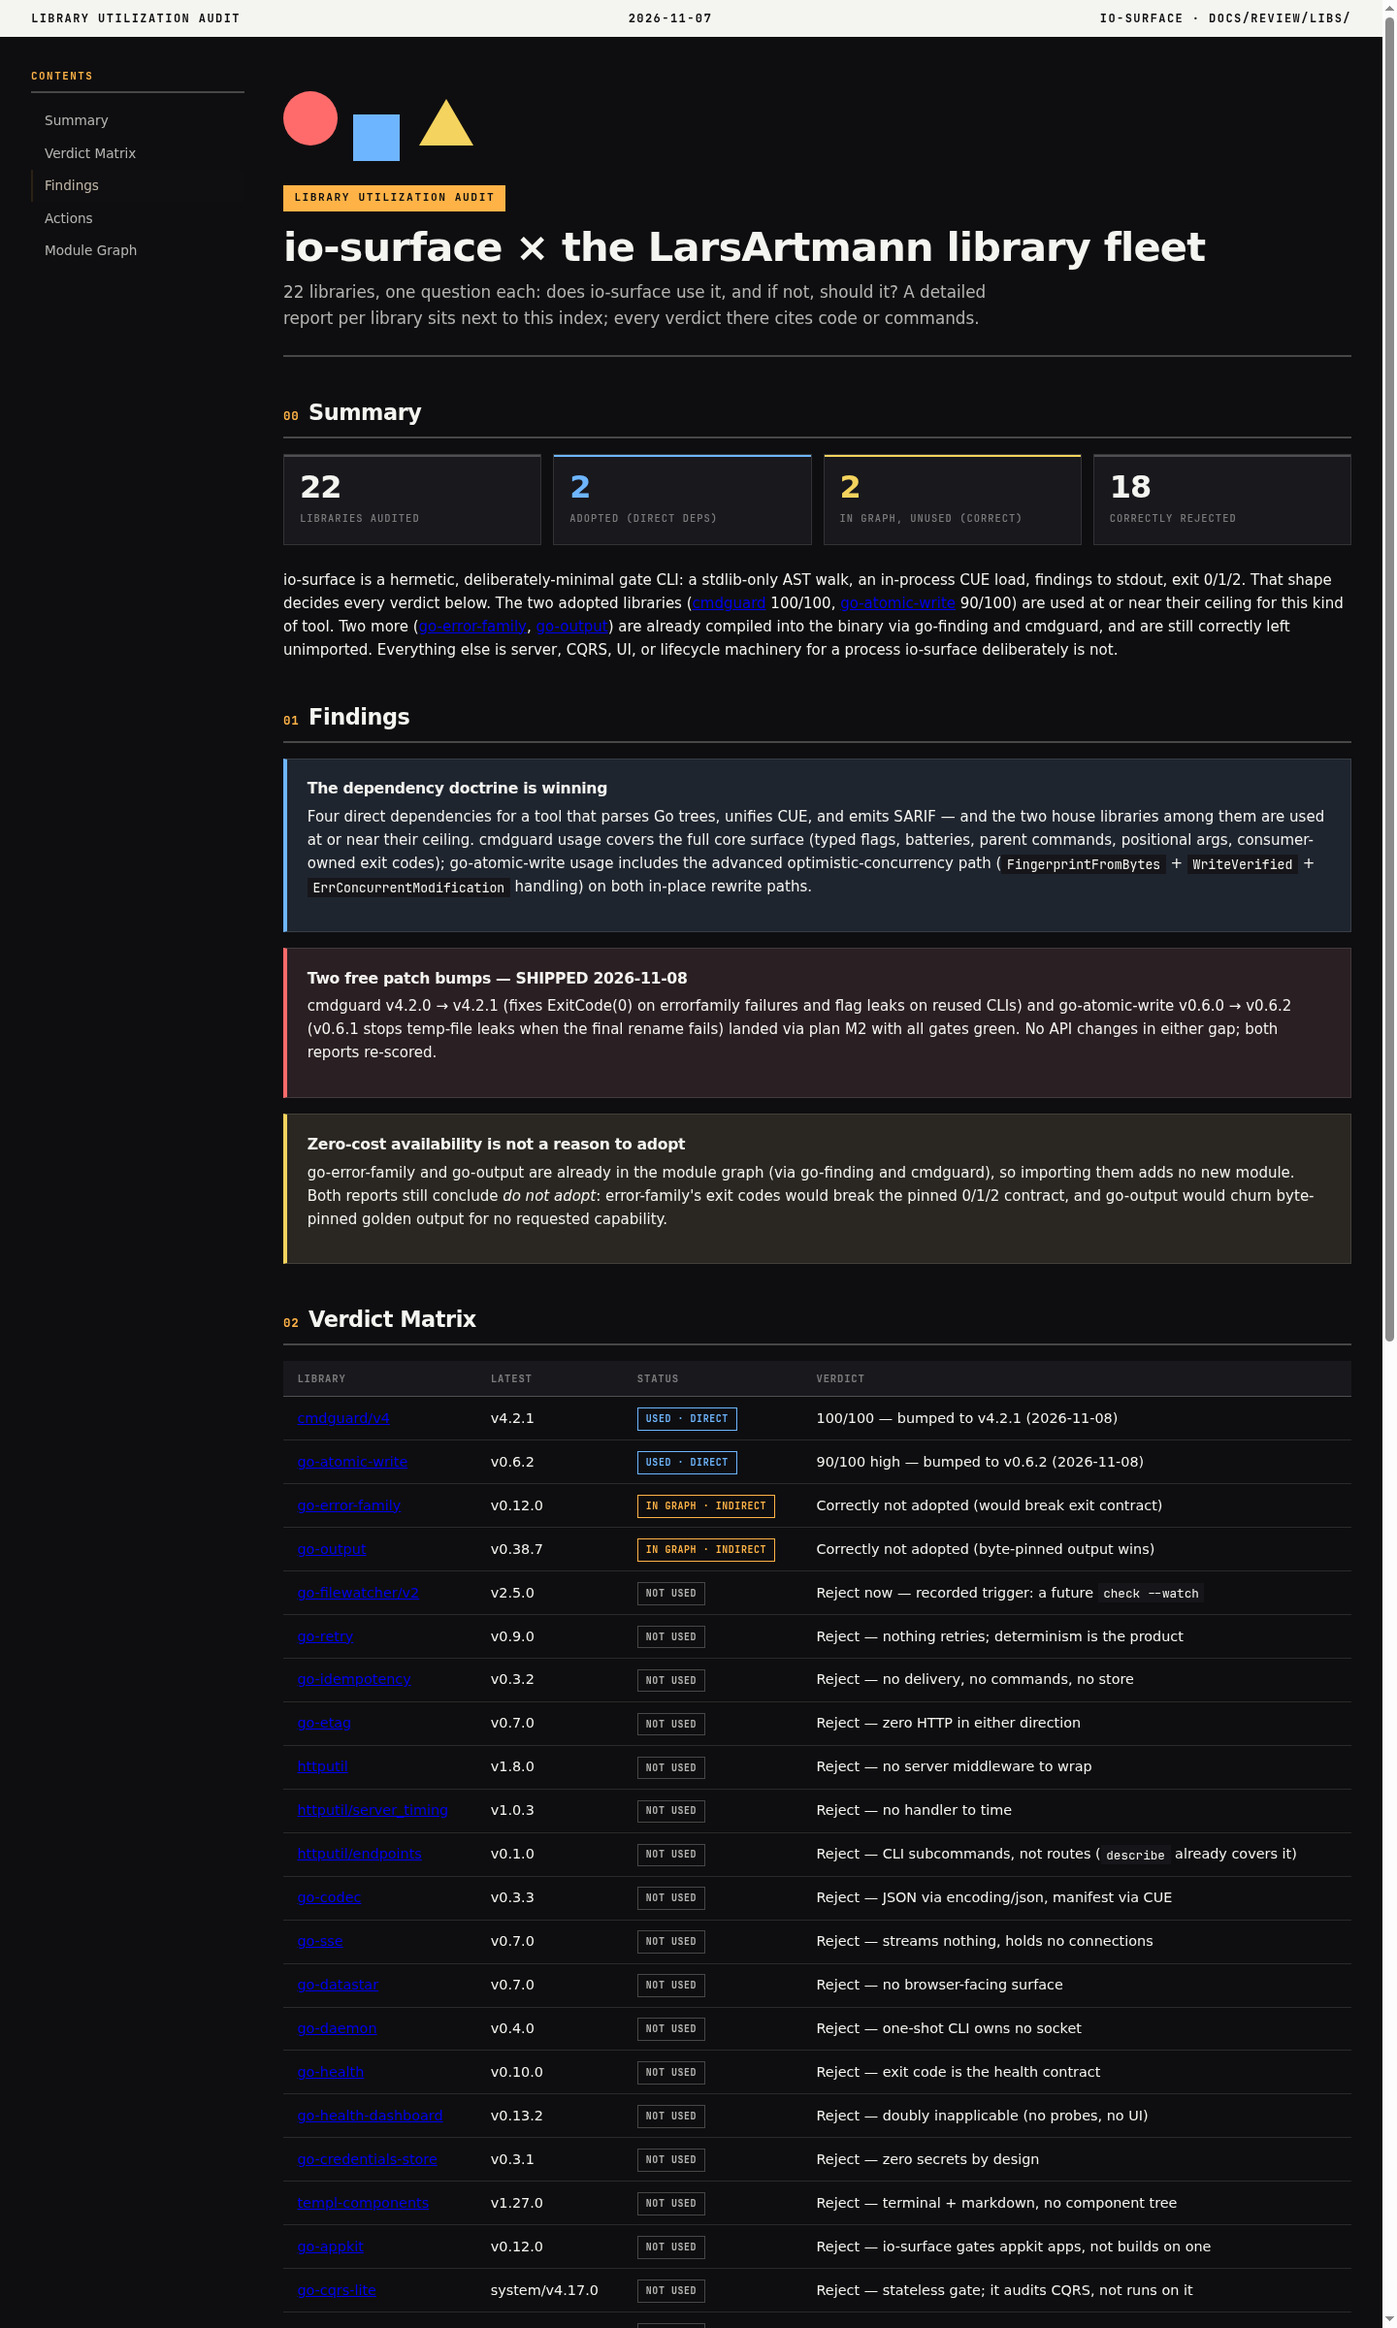
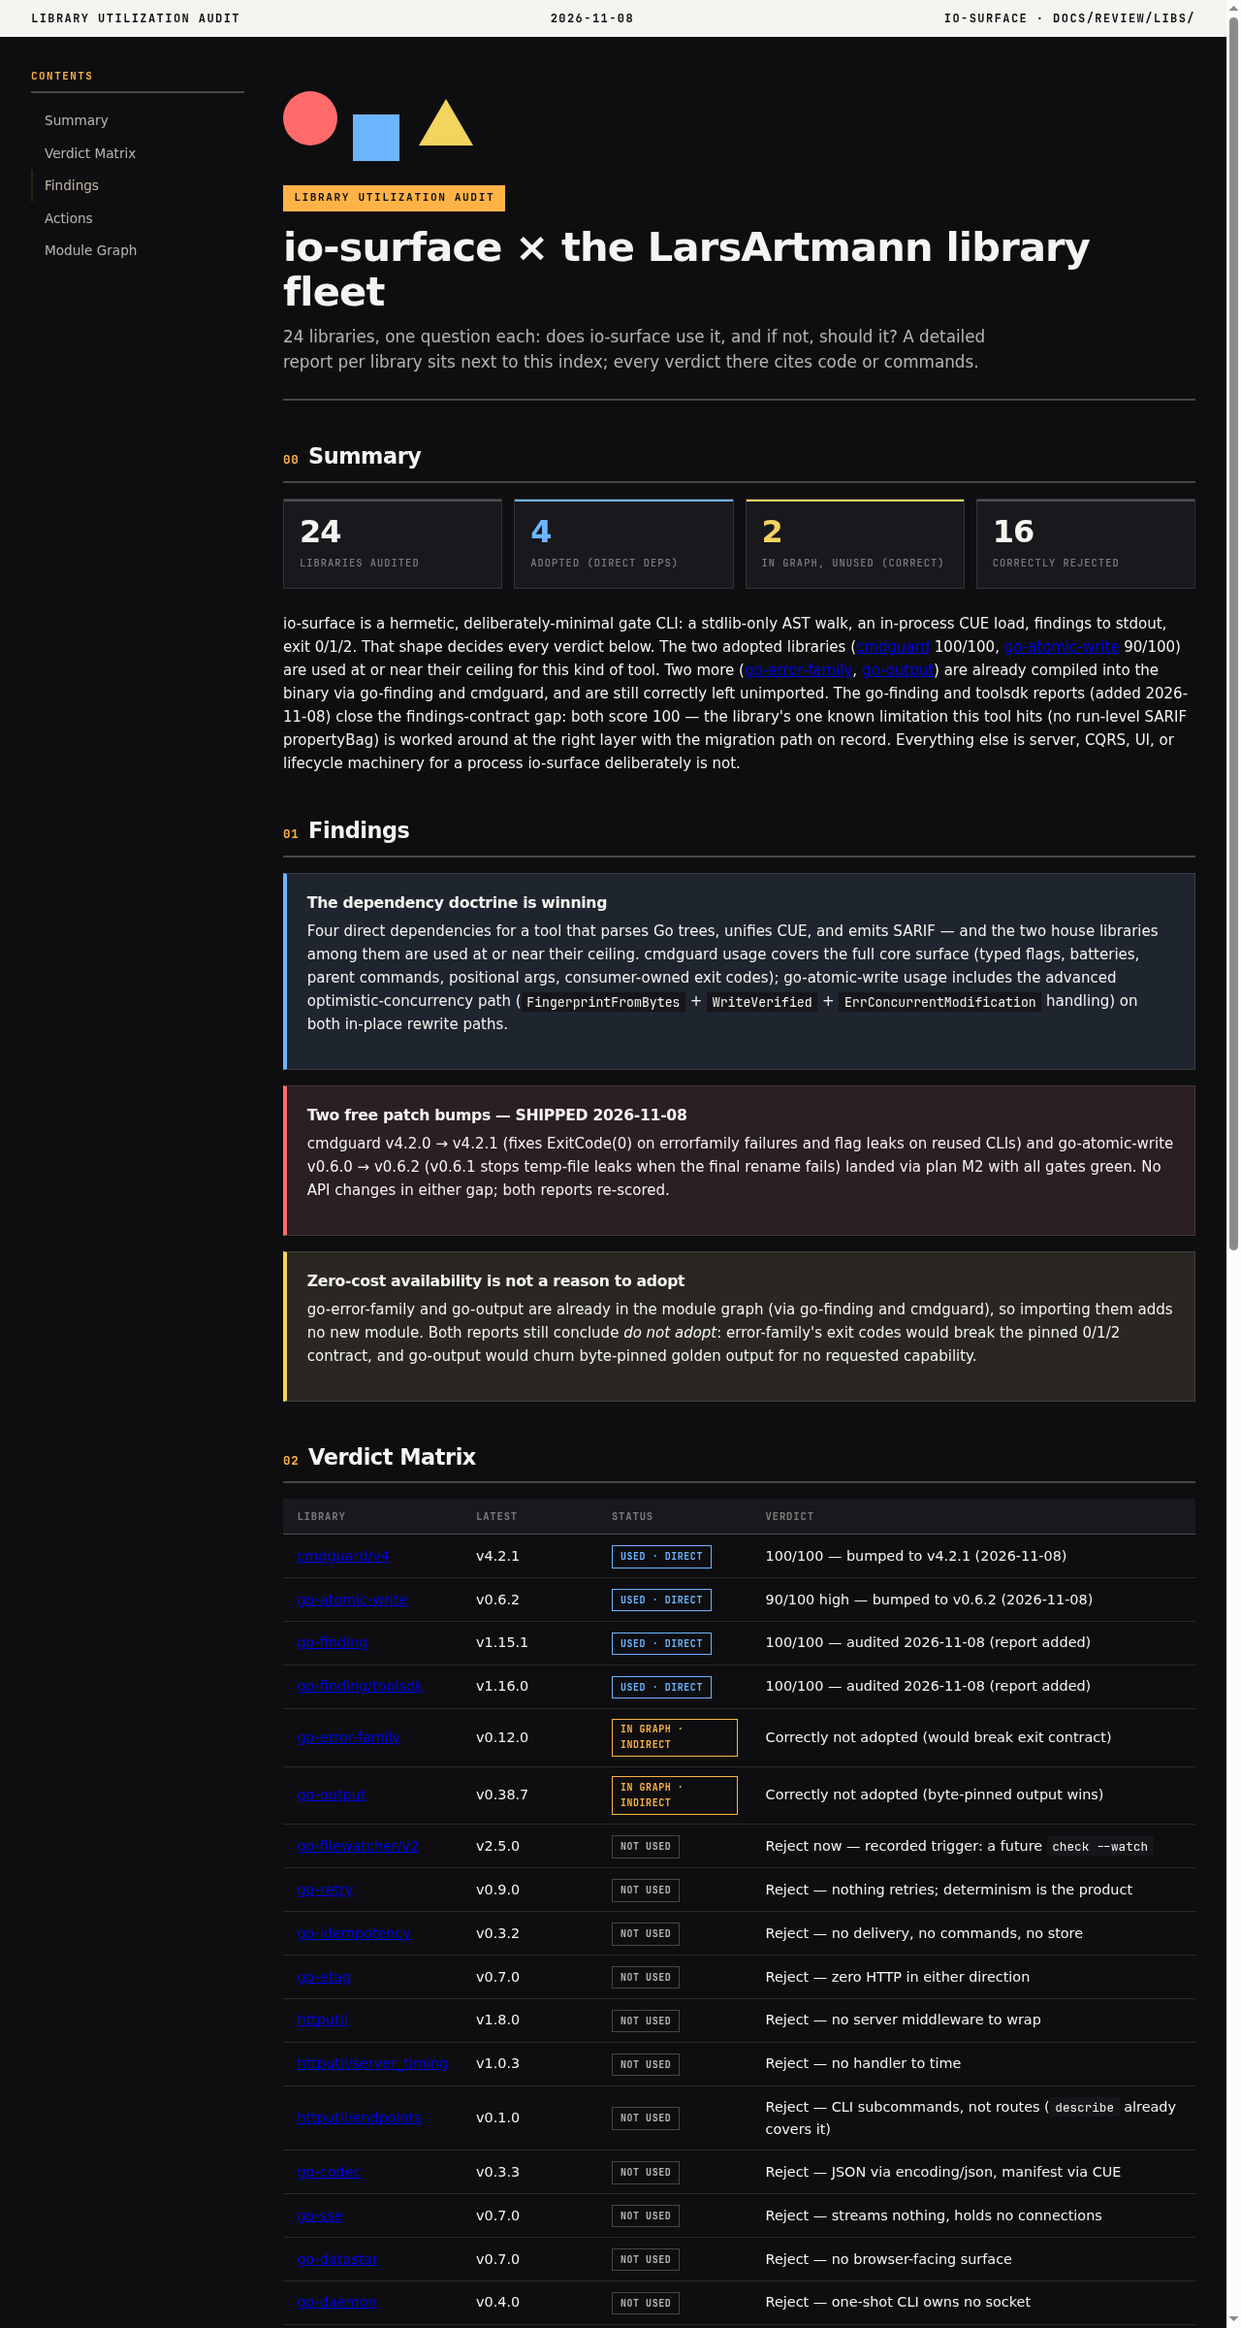
chore: auto-commit 3 changed file(s) (heuristic)
TODO_LIST.md
docs/review/assets/libs-audit-index-2026-11-08.png
docs/review/libs/index.html

Daemon: true

Changed region(s): [[0.1875, 0.0312, 1.0, 1.0], [0.0312, 0.0312, 0.0938, 0.125]]

diff --git a/docs/review/libs/index.html b/docs/review/libs/index.html
@@ -3,7 +3,7 @@
   <head>
     <meta charset="UTF-8" />
     <meta name="viewport" content="width=device-width, initial-scale=1.0" />
-    <title>io-surface Library Utilization Audit — 2026-11-07</title>
+    <title>io-surface Library Utilization Audit — 2026-11-08</title>
     <style>
       /* =========================================================================
          BAUHAUS DARK — Dashboard template
@@ -829,7 +829,7 @@
     <!-- Full-bleed top bar -->
     <div class="top-bar">
       <span>LIBRARY UTILIZATION AUDIT</span>
-      <span>2026-11-07</span>
+      <span>2026-11-08</span>
       <span>io-surface &middot; docs/review/libs/</span>
     </div>
 
@@ -857,7 +857,7 @@
           <div class="hero-badge">Library Utilization Audit</div>
           <h1>io-surface &times; the LarsArtmann library fleet</h1>
           <p class="hero-subtitle">
-            22 libraries, one question each: does io-surface use it, and if
+            24 libraries, one question each: does io-surface use it, and if
             not, should it? A detailed report per library sits next to this
             index; every verdict there cites code or commands.
           </p>
@@ -867,11 +867,11 @@
         <h2 id="summary"><span class="num">00</span>Summary</h2>
         <div class="stat-grid">
           <div class="stat-card">
-            <div class="stat-value">22</div>
+            <div class="stat-value">24</div>
             <div class="stat-label">Libraries audited</div>
           </div>
           <div class="stat-card stat-good">
-            <div class="stat-value">2</div>
+            <div class="stat-value">4</div>
             <div class="stat-label">Adopted (direct deps)</div>
           </div>
           <div class="stat-card stat-warn">
@@ -879,7 +879,7 @@
             <div class="stat-label">In graph, unused (correct)</div>
           </div>
           <div class="stat-card">
-            <div class="stat-value">18</div>
+            <div class="stat-value">16</div>
             <div class="stat-label">Correctly rejected</div>
           </div>
         </div>
@@ -894,7 +894,11 @@
           (<a href="go-error-family.md">go-error-family</a>,
           <a href="go-output.md">go-output</a>) are already compiled into the
           binary via go-finding and cmdguard, and are still correctly left
-          unimported. Everything else is server, CQRS, UI, or lifecycle
+          unimported. The go-finding and toolsdk reports (added 2026-11-08)
+          close the findings-contract gap: both score 100 — the library's one
+          known limitation this tool hits (no run-level SARIF propertyBag) is
+          worked around at the right layer with the migration path on record.
+          Everything else is server, CQRS, UI, or lifecycle
           machinery for a process io-surface deliberately is not.
         </p>
 
@@ -962,6 +966,18 @@
               <td>v0.6.2</td>
               <td><span class="badge badge-fixed">Used &middot; direct</span></td>
               <td>90/100 high &mdash; bumped to v0.6.2 (2026-11-08)</td>
+            </tr>
+            <tr>
+              <td><a href="go-finding.md">go-finding</a></td>
+              <td>v1.15.1</td>
+              <td><span class="badge badge-fixed">Used &middot; direct</span></td>
+              <td>100/100 &mdash; audited 2026-11-08 (report added)</td>
+            </tr>
+            <tr>
+              <td><a href="go-finding-toolsdk.md">go-finding/toolsdk</a></td>
+              <td>v1.16.0</td>
+              <td><span class="badge badge-fixed">Used &middot; direct</span></td>
+              <td>100/100 &mdash; audited 2026-11-08 (report added)</td>
             </tr>
             <tr>
               <td><a href="go-error-family.md">go-error-family</a></td>
@@ -1125,19 +1141,19 @@
         <!-- ASCII Diagram -->
         <h2 id="graph">Module Graph</h2>
         <div class="dep-tree">
-          <span class="root">io-surface</span> &middot; 22 audited libs, 4
+          <span class="root">io-surface</span> &middot; 24 audited libs, 4
           direct deps &middot; house libs in the graph:<br />
           &nbsp;&nbsp;direct &mdash;
           <span class="ok">cmdguard/v4 v4.2.1</span> &middot;
           <span class="ok">go-atomic-write v0.6.2</span> &middot;
-          <span class="ok">go-finding v1.15.1 + toolsdk v1.16.0</span> (not on
-          the audit list, adjacent)<br />
+          <span class="ok">go-finding v1.15.1</span> +
+          <span class="ok">toolsdk v1.16.0</span><br />
           &nbsp;&nbsp;indirect &mdash;
           <span class="unwanted">go-error-family v0.12.0</span> via
           go-finding &middot;
           <span class="unwanted">go-output v0.38.4</span> + go-branded-id +
           go-ndjson + samber-do-auditlog via cmdguard<br />
-          &nbsp;&nbsp;absent &mdash; the remaining 18 audited libraries
+          &nbsp;&nbsp;absent &mdash; the remaining 16 audited libraries
         </div>
 
         <!-- Numbered Steps -->
@@ -1175,7 +1191,7 @@
         </p>
         <div class="compare-row">
           <div>
-            <pre><code>ls docs/review/libs/*.md | wc -l   # 22
+            <pre><code>ls docs/review/libs/*.md | wc -l   # 24
 rg -n 'larsartmann' go.mod          # direct + indirect lines
 go mod why -m github.com/larsartmann/go-error-family
 go list -m github.com/larsartmann/cmdguard/v4@latest
@@ -1185,7 +1201,7 @@ go run ./cmd/io-surface check --root .   # gate green at audit HEAD</code></pre>
         </div>
 
         <footer class="footer">
-          Generated 2026-11-07 &middot; Library utilization audit series &middot;
+          Generated 2026-11-08 &middot; Library utilization audit series &middot;
           per-library reports: cmdguard.md, go-atomic-write.md,
           go-error-family.md, go-output.md + 18 rejection reports in this
           directory &middot; all claims cite code paths or verify commands

diff --git a/TODO_LIST.md b/TODO_LIST.md
@@ -198,9 +198,9 @@
 | 119 | Proxy-check latest versions for the 16 local-tag-only audit libs; resolve go-credentials-store v0.2.1-tag vs README-v0.3.1                                                   | ✅ `DONE` 2026-11-08   | Med    | 60min  | 18 modules proxy-verified (`go list -m <mod>@latest`): all match local tags EXCEPT go-credentials-store → **v0.3.1 on proxy** (README was right, clone behind; report + index annotated); cqrs-htmx = `/v4` path v4.18.1, go-cqrs-lite = `system/v4` path v4.17.0 (bare paths resolve to legacy majors — noted)                                                                                                                                                                                                                                                                                                                               |
 | 120 | Audit discoverability: README pointer to `docs/review/libs/`, screenshot link in index footer, README claims vs v0.4.0                                                       | ✅ `DONE` 2026-11-08   | Med    | 30min  | README Status carries the audit pointer + dnsblockd note re-worded to owner-scheduled; index footer links `../assets/libs-audit-index-2026-11-08.png` (359KB, regenerated headless — the 2026-11-07 png claimed by the audit session never existed in git, now fixed); status line already v0.4.0                                                                                                                                                                                                                                                                                                                                             |
 | 121 | Run full local CI battery (render, inventory-doc --check, SARIF emit, facts-freshness) — convert "gate green" to "CI green"                                                  | ✅ `DONE` 2026-11-08   | Med    | 30min  | All CI steps replayed locally: build/vet/`test -race`/gofmt/self-check/facts-fresh/tree-relative/render/inventory-doc `--check` (regenerated)/dprint/gate-SARIF (0 results)/lint-SARIF (4 results, `go-finding/meta/enforcement: lint` visible)/docs-gates 5-of-5 PASS; pkg.go.dev check folded in (#38 DONE). Facts-freshness is tree-relative until commit (CI compares HEAD)                                                                                                                                                                                                                                                               |
-| 122 | go-finding + go-finding/toolsdk utilization deep-dives in the `docs/review/libs/` series (+ index 22→24 rows)                                                                | 🔴 `TODO`              | Med    | 100min | status report §f.10; direct deps off the original 22-lib audit list                                                                                                                                                                                                                                                                                                                                                                                                                                                                                                                                                                           |
+| 122 | go-finding + go-finding/toolsdk utilization deep-dives in the `docs/review/libs/` series (+ index 22→24 rows)                                                                | ✅ `DONE` (2026-11-08) | Med    | 100min | `docs/review/libs/go-finding.md` (100/100) + `go-finding-toolsdk.md` (100/100); index.html 24 rows, counts/stat-cards/footer/screenshot updated; usage maps + verify blocks replayed green                                                                                                                                                                                                                                                                                                                                                                                                                                                                                                                                                                           |
 | 123 | errcheck decision for the 8 `commands.go` stdout-sink warnings: adopt minimal config + fix, or documented waiver                                                             | ✅ `DONE` 2026-11-08   | Med    | 60min  | Waiver documented in AGENTS.md Conventions: stdout/stderr report writes carry `_, _ =` (exit codes reflect the gate, not printer failures; SIGPIPE = runtime convention); the 1 real warning (main_test `fmt.Sscanf` parse) FIXED with a `t.Fatalf` on parse failure; no `.golangci.yml` adopted (repo has none by design)                                                                                                                                                                                                                                                                                                                    |
-| 124 | Version currency: `cuelang.org/go` v0.17.1 vs latest + toolsdk v1.16.0/go-finding v1.15.1 skew check                                                                         | 🔴 `TODO`              | Low    | 30min  | status report §f.11+14                                                                                                                                                                                                                                                                                                                                                                                                                                                                                                                                                                                                                        |
+| 124 | Version currency: `cuelang.org/go` v0.17.1 vs latest + toolsdk v1.16.0/go-finding v1.15.1 skew check                                                                         | ✅ `DONE` (2026-11-08) | Low    | 30min  | all four direct deps AT latest (verified `go list -m …@latest` 2026-11-08): cue v0.17.1, cmdguard v4.2.1, go-atomic-write v0.6.2, go-finding v1.15.1 + toolsdk v1.16.0; the "skew" is per-sub-module SemVer on the same 2026-10-11/12 release train (documented in docs/review/libs/go-finding.md) — nothing to bump                                                                                                                                                                                                                                                                                                                                                                                                                                                                                                                                                                                                                        |
 | 125 | Verify BuildFlow picked up provider v0.4.0 (sdk_imports pin; run one detect end-to-end)                                                                                      | ✅ `DONE` (2026-11-08) | Med    | 30min  | pin verified in go.mod + `sdk_imports.go` (M13.1); both faces evidenced end-to-end 2026-11-08 via `nix run /home/lars/projects/BuildFlow#buildflow -- -s io-surface` at HEAD `136e53a`: gate face on this repo = step ✔ with advisory radar findings only (never a step error), radar face on manifestless `/tmp/radar-demo` = 3 info (`client-no-timeout`, `closer-missing`, `write-non-atomic`), radar face on multi-module go-taskqueue = 53 info / 26 files. Gotcha: the stale system binary (`940aeae`, predates the v0.4.0 pin) silently reports 0 findings on manifestless trees — BuildFlow#81 class; use `nix run` HEAD for evidence |
 | 126 | Series sweep: `docs/reviews/` + `docs/research/` overlap check + supersedes convention for the audit series                                                                  | 🔴 `TODO`              | Low    | 30min  | status report §c.5; pareto plan M22                                                                                                                                                                                                                                                                                                                                                                                                                                                                                                                                                                                                           |
 | 127 | Audit rendering checks: mobile check (render index.html at 320 px; only 1280 px was screenshotted) + visual pass of the 22 .md report files on GitHub (tables/badges render) | 🔴 `TODO`              | Low    | 30min  | status report §f.19+20; pareto plan M21                                                                                                                                                                                                                                                                                                                                                                                                                                                                                                                                                                                                       |
